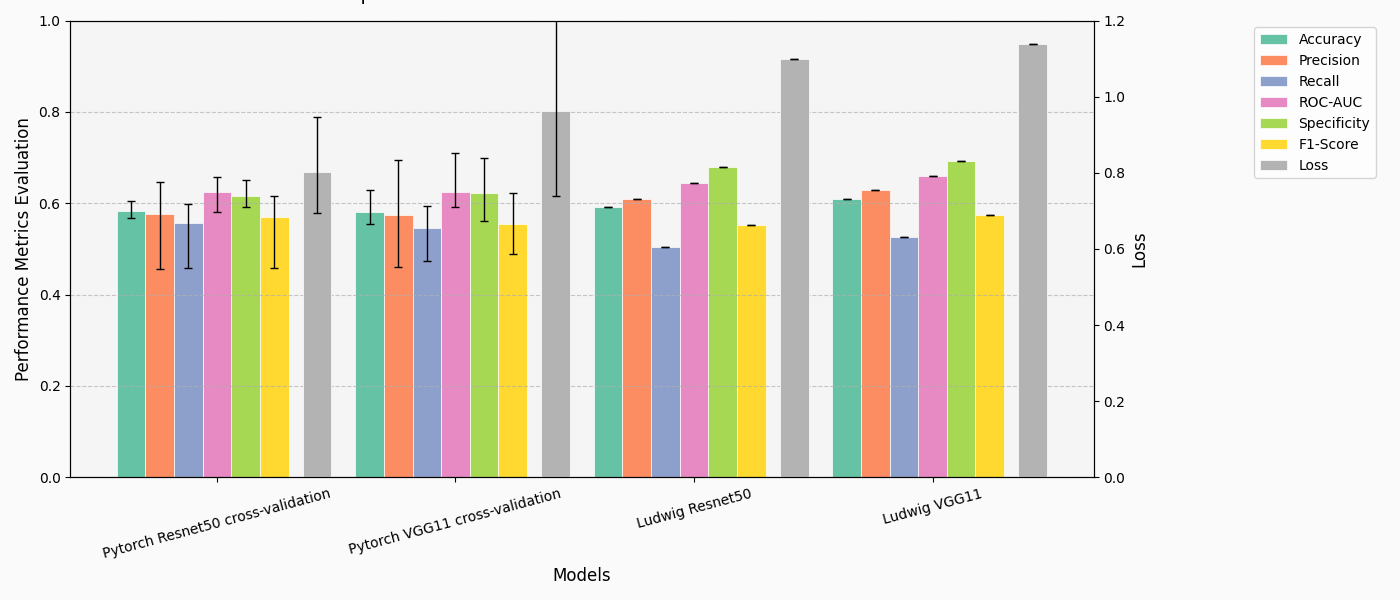
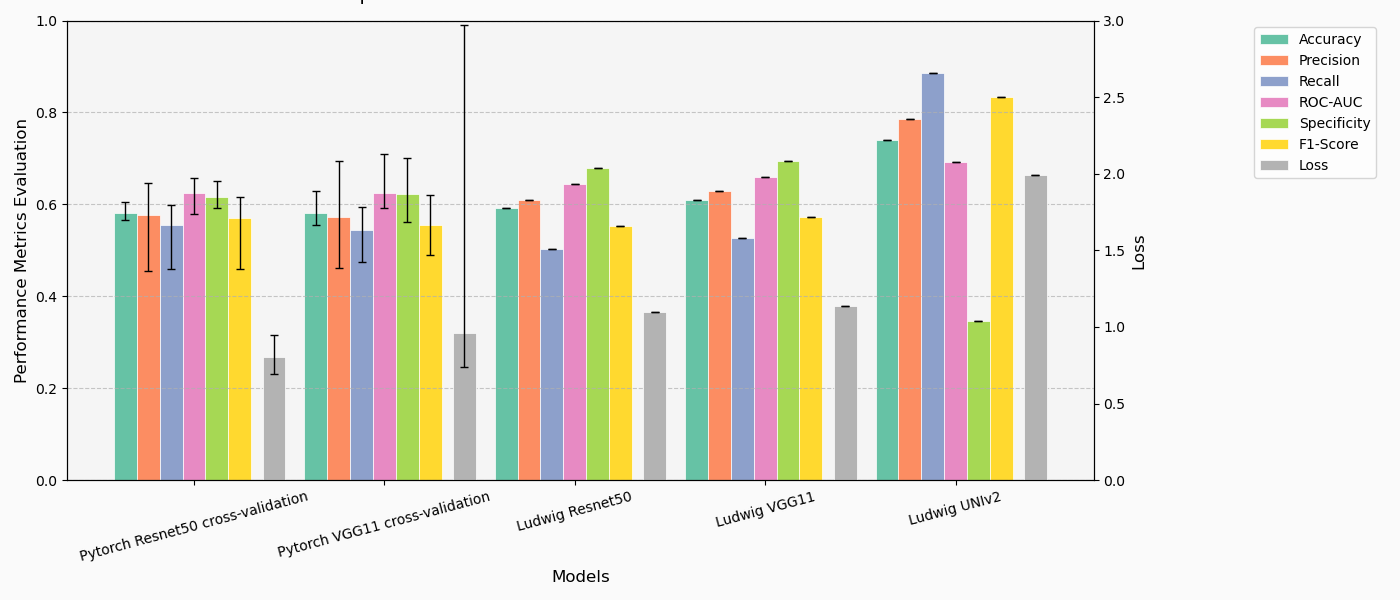
figure for ludwig univ2

diff --git a/tiles_embedding_test/utils/metrics_plot.py b/tiles_embedding_test/utils/metrics_plot.py
@@ -2,42 +2,42 @@ import matplotlib.pyplot as plt
 import numpy as np
 
 # Data from the results (Test set values only, with CIs where available)
-results = ['Pytorch Resnet50 cross-validation', 'Pytorch VGG11 cross-validation', 'Ludwig Resnet50', 'Ludwig VGG11']
+results = ['Pytorch Resnet50 cross-validation', 'Pytorch VGG11 cross-validation', 'Ludwig Resnet50', 'Ludwig VGG11', 'Ludwig UNIv2']
 
 # Loss with CIs for Result 1 and 2
-loss = [0.8014, 0.9623, 1.0982, 1.1385]
-loss_ci_lower = [0.6932, 0.7394, None, None]  # Lower bounds for Result 1 and 2
-loss_ci_upper = [0.9473, 2.9727, None, None]  # Upper bounds for Result 1 and 2
+loss = [0.8014, 0.9623, 1.0982, 1.1385, 1.9936]
+loss_ci_lower = [0.6932, 0.7394, None, None, None]  # Lower bounds for Result 1 and 2
+loss_ci_upper = [0.9473, 2.9727, None, None, None]  # Upper bounds for Result 1 and 2
 
 # Accuracy with CIs for Result 1 and 2
-accuracy = [0.5822, 0.5814, 0.5924, 0.6100]
-accuracy_ci_lower = [0.5669, 0.5550, None, None]
-accuracy_ci_upper = [0.6051, 0.6281, None, None]
+accuracy = [0.5822, 0.5814, 0.5924, 0.6100, 0.7398]
+accuracy_ci_lower = [0.5669, 0.5550, None, None, None]
+accuracy_ci_upper = [0.6051, 0.6281, None, None, None]
 
 # Precision with CIs for Result 1 and 2
-precision = [0.5769, 0.5734, 0.6096, 0.6296]
-precision_ci_lower = [0.4560, 0.4608, None, None]
-precision_ci_upper = [0.6459, 0.6939, None, None]
+precision = [0.5769, 0.5734, 0.6096, 0.6296, 0.7850]
+precision_ci_lower = [0.4560, 0.4608, None, None, None]
+precision_ci_upper = [0.6459, 0.6939, None, None, None]
 
 # Recall with CIs for Result 1 and 2
-recall = [0.5558, 0.5450, 0.5039, 0.5258]
-recall_ci_lower = [0.4591, 0.4739, None, None]
-recall_ci_upper = [0.5986, 0.5938, None, None]
+recall = [0.5558, 0.5450, 0.5039, 0.5258, 0.8859]
+recall_ci_lower = [0.4591, 0.4739, None, None, None]
+recall_ci_upper = [0.5986, 0.5938, None, None, None]
 
 # ROC-AUC with CIs for Result 1 and 2
-roc_auc = [0.6238, 0.6241, 0.6435, 0.6597]
-roc_auc_ci_lower = [0.5797, 0.5911, None, None]
-roc_auc_ci_upper = [0.6579, 0.7104, None, None]
+roc_auc = [0.6238, 0.6241, 0.6435, 0.6597, 0.6930]
+roc_auc_ci_lower = [0.5797, 0.5911, None, None, None]
+roc_auc_ci_upper = [0.6579, 0.7104, None, None, None]
 
 # Specificity with CIs for Result 1 and 2
-specificity = [0.6164, 0.6228, 0.6801, 0.6934]
-specificity_ci_lower = [0.5913, 0.5613, None, None]
-specificity_ci_upper = [0.6501, 0.6998, None, None]
+specificity = [0.6164, 0.6228, 0.6801, 0.6934, 0.3454]
+specificity_ci_lower = [0.5913, 0.5613, None, None, None]
+specificity_ci_upper = [0.6501, 0.6998, None, None, None]
 
-# F1-Score with CIs for Result 1 and 2
-f1_score = [0.5703, 0.5544, 0.5530, 0.5732]
-f1_score_ci_lower = [0.4591, 0.4896, None, None]
-f1_score_ci_upper = [0.6166, 0.6214, None, None]
+# F1-Score with CIs for Result 1 and 2, calculated for Ludwig UNIv2
+f1_score = [0.5703, 0.5544, 0.5530, 0.5732, 0.8325]  # 0.8325 calculated above
+f1_score_ci_lower = [0.4591, 0.4896, None, None, None]
+f1_score_ci_upper = [0.6166, 0.6214, None, None, None]
 
 # Combine all metrics except Loss for the left y-axis
 metrics = [accuracy, precision, recall, roc_auc, specificity, f1_score]
@@ -69,12 +69,12 @@ n_metrics = len(metrics)
 for i, (metric, name, color, lower, upper) in enumerate(zip(metrics, metric_names, colors, ci_lower, ci_upper)):
     offset = (i - n_metrics / 2) * bar_width
     bars = ax1.bar(x + offset, metric, bar_width, label=name, color=color, edgecolor='white', linewidth=0.5)
-    
-    # Calculate error bar values (None for Results 3 and 4)
+
+    # Calculate error bar values (None for Results 3, 4, and 5)
     yerr_lower = [m - l if l is not None else 0 for m, l in zip(metric, lower)]
     yerr_upper = [u - m if u is not None else 0 for m, u in zip(metric, upper)]
     yerr = np.array([yerr_lower, yerr_upper])
-    
+
     # Add error bars
     ax1.errorbar(x + offset, metric, yerr=yerr, fmt='none', color='black', capsize=3, linewidth=1)
 
@@ -93,7 +93,7 @@ ax2.set_ylabel('Loss', fontsize=12)
 ax1.set_xticks(x)
 ax1.set_xticklabels(results, fontsize=10, rotation=15)
 ax1.set_ylim(0, 1)
-ax2.set_ylim(0, 1.2)
+ax2.set_ylim(0, 3)  # Adjusted to accommodate Ludwig UNIv2's higher loss (1.9936)
 
 # Add gridlines
 ax1.grid(True, axis='y', linestyle='--', alpha=0.7)
@@ -115,4 +115,3 @@ plt.savefig('comparison_metrics.png')
 
 # Show the plot
 plt.show()
-
